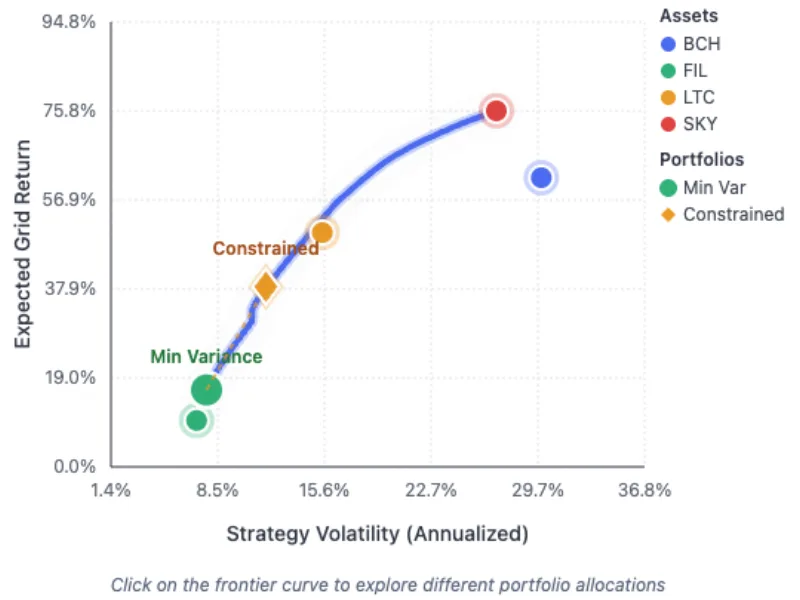
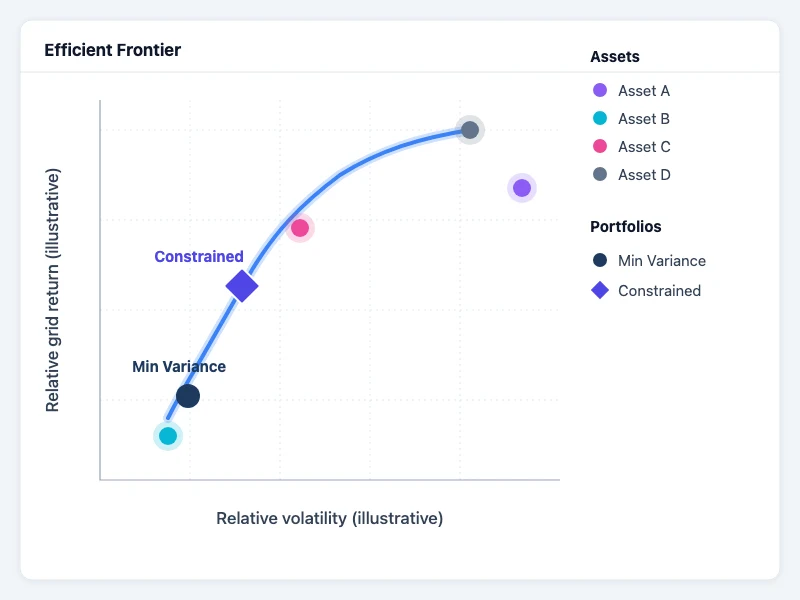
about: swap CoinRoc card to illustrative frontier diagram; add Matlock caption and disclaimer

diff --git a/src/routes/about/+page.svelte b/src/routes/about/+page.svelte
@@ -74,6 +74,7 @@
 		title: string;
 		tag: string;
 		href?: string;
+		caption?: string;
 	};
 
 	// Curated: RompToStomp (charity), HopeHouse (non-profit), reflexology,
@@ -120,7 +121,7 @@
 
 	// Current work: real captures of the live sites' hero sections (1280px viewport).
 	const currentProjects: PastProject[] = [
-		{ src: '/portfolio/coinroc.webp', alt: 'CoinRoc analysis interface', title: 'CoinRoc', tag: 'Crypto analytics platform', href: 'https://coinroc.com' },
+		{ src: '/portfolio/coinroc.webp', alt: 'Illustrative CoinRoc efficient frontier diagram', title: 'CoinRoc', tag: 'Crypto analytics platform', href: 'https://coinroc.com', caption: 'Illustrative methodology diagram. Assets and positions are hypothetical and do not represent actual results, expected returns, or recommendations.' },
 		{ src: '/portfolio/presigate.webp', alt: 'Presigate website hero', title: 'Presigate', tag: 'AI-agent data API', href: 'https://presigate.com' },
 		{ src: '/portfolio/beerzap.webp', alt: 'BeerZap website hero', title: 'BeerZap', tag: 'Festival app', href: 'https://beerzap.com' }
 	];
@@ -578,6 +579,7 @@
 			<div class="grid gap-6 sm:grid-cols-2 lg:grid-cols-3">
 				{#each items as project (project.title)}
 					{#if project.href}
+						<div>
 						<a
 							href={project.href}
 							target="_blank"
@@ -587,6 +589,10 @@
 						>
 							{@render projectCardBody(project)}
 						</a>
+						{#if project.caption}
+							<p class="mt-2 text-xs italic leading-relaxed text-slate-light">{project.caption}</p>
+						{/if}
+						</div>
 					{:else}
 						<figure class="group overflow-hidden rounded-sm border border-rule bg-paper transition hover:border-navy-deep/40 hover:shadow-[0_20px_40px_-25px_rgba(20,40,72,0.3)]">
 							{@render projectCardBody(project)}
@@ -598,6 +604,9 @@
 
 		<div class="mb-4 text-xs uppercase tracking-wider text-slate-light">Current work</div>
 		{@render projectGrid(currentProjects)}
+		<p class="mt-6 max-w-3xl text-xs italic leading-relaxed text-slate-light">
+			Educational content, not investment advice. Digital assets are highly volatile and can lose all value.
+		</p>
 
 		<div class="mb-4 mt-14 text-xs uppercase tracking-wider text-slate-light">Archive · 2012–2019</div>
 		{@render projectGrid(projects)}
